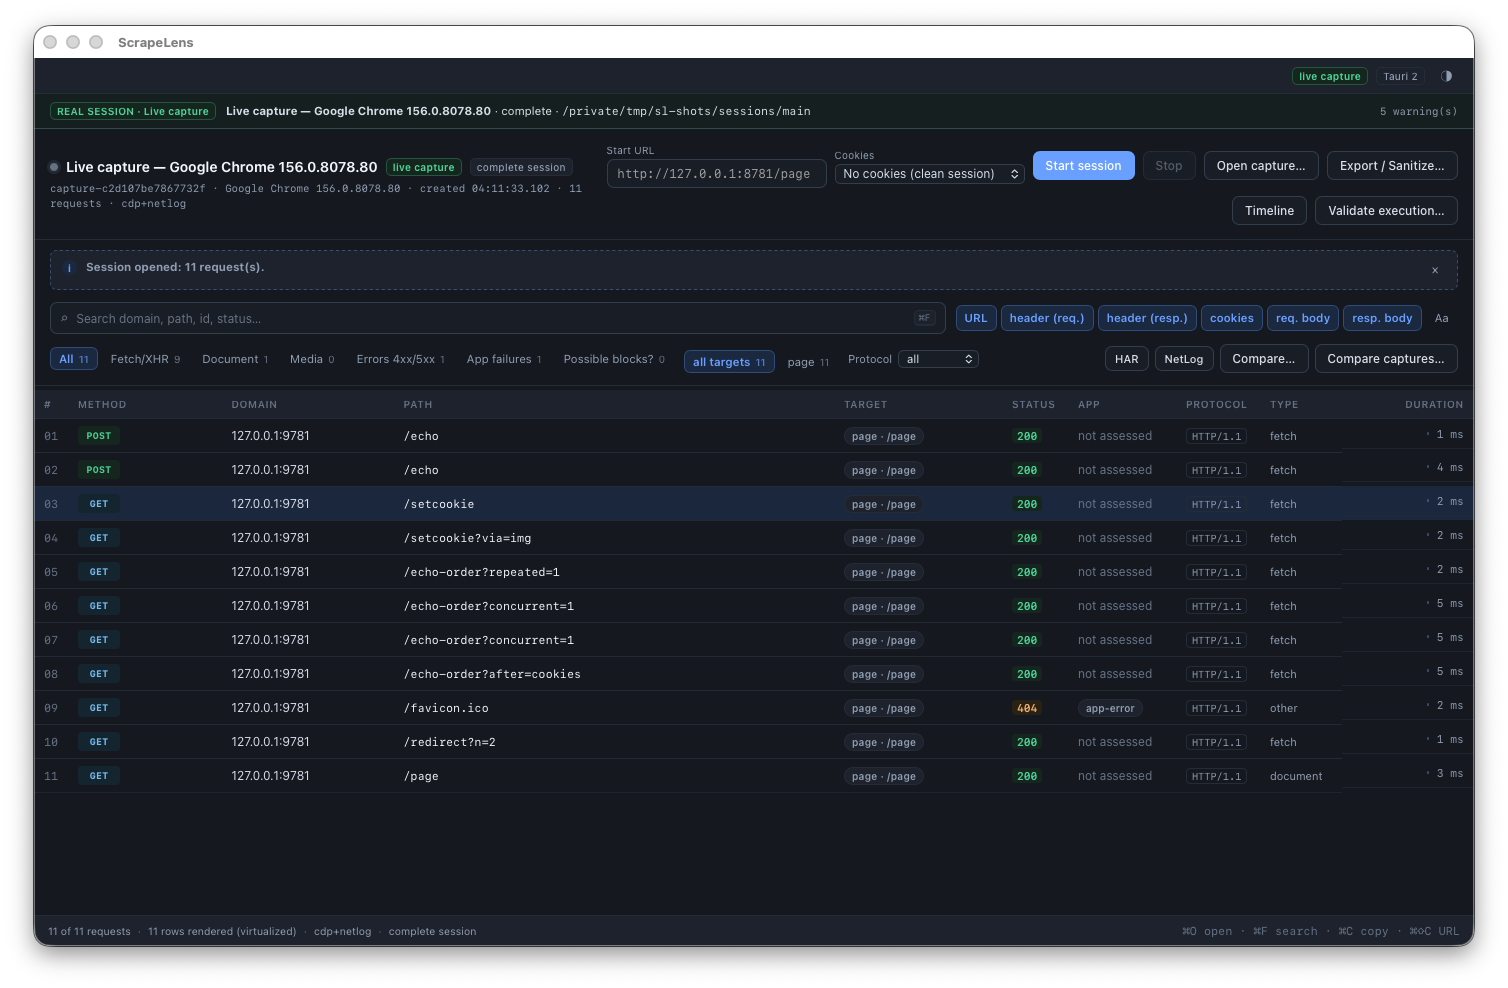
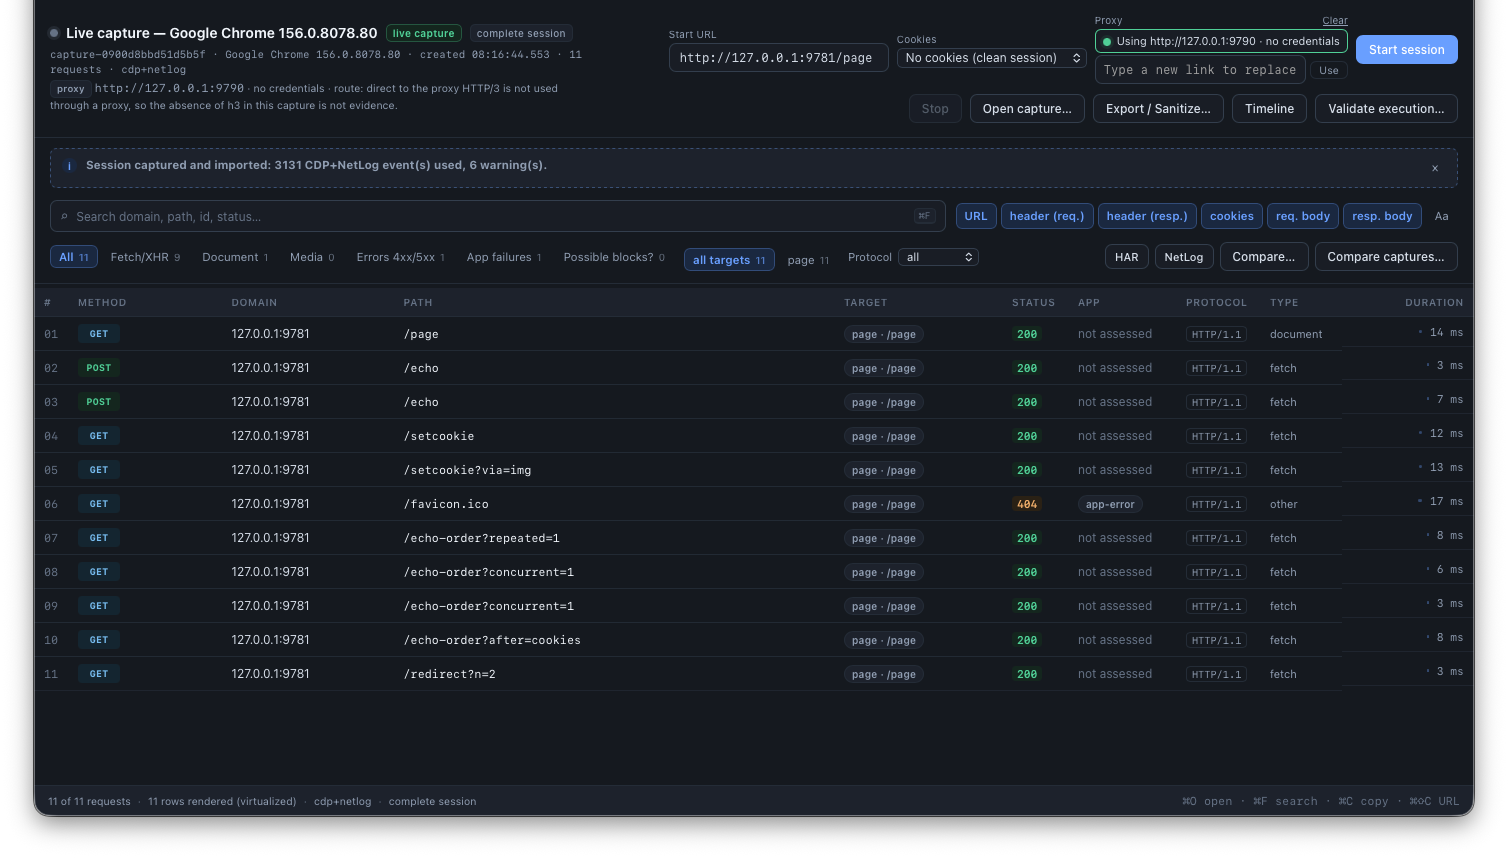
docs(readme): add the Proxy section and a proxied capture screenshot
Add a short Proxy section with the accepted link formats, the MCP "env" option,
and the limits (no HTTP/3, no saved password, exported scripts do not use the
proxy, loopback targets stay off the proxy). Link to docs/22-proxy.md.

Replace the top-bar screenshot with a real capture made through a local test
HTTP proxy without credentials. It shows the Proxy field active and the session
header with the proxy, its route and the HTTP/3 note. The screenshot is cropped
to the capture bar so no local path appears in it.

diff --git a/README.md b/README.md
@@ -56,7 +56,7 @@ Built with **Tauri 2 + React/TypeScript + Rust**, it runs **100% locally**, with
 |---|---|
 | ![Timeline](docs/screenshots/live-timeline.png) | ![Export](docs/screenshots/live-export-sanitize-dialog.png) |
 
-These screenshots are real captures: headless Chrome 156 with a dedicated test profile, against the local ScrapeLens test server (`127.0.0.1:9781`, page `/page`). The `/private/tmp/...` path in them is the temporary session folder of that run.
+These screenshots are real captures: headless Chrome 156 with a dedicated test profile, against the local ScrapeLens test server (`127.0.0.1:9781`, page `/page`). The top-bar screenshot was captured through a local test HTTP proxy (`127.0.0.1:9790`, no credentials) to show the **Proxy** field and the session header. The `/private/tmp/...` path in the export dialog is the temporary session folder of that run.
 
 </details>
 
@@ -111,6 +111,33 @@ open src-tauri/target/release/bundle/macos/ScrapeLens.app
 | `⌘⇧C` / `Ctrl+Shift+C` | Copy the selected request's URL |
 | `↑` / `↓` | Navigate the request list |
 | `Esc` | Close modal / clear selection |
+
+---
+
+## 🌐 Proxy
+
+Optional: one proxy link sends the whole capture through that proxy. Use the **Proxy** field next to *Start URL* and *Cookies*; its status line shows the server in use. In MCP, `start_capture` takes the same `proxy` value.
+
+Accepted links:
+
+| Form | Meaning |
+|---|---|
+| `http://[user:pass@]host[:port]` | HTTP proxy (default port 80) |
+| `https://[user:pass@]host[:port]` | Proxy reached over TLS (default port 443) |
+| `socks5://[user:pass@]host[:port]`, `socks5h://…` | SOCKS5, with remote DNS (default port 1080) |
+| `[user:pass@]host:port` | No scheme: same as `http://` |
+| `host:port:user:pass` | Common provider format: same as `http://user:pass@host:port` |
+
+- **MCP:** prefer `proxy: "env"`, which reads the link from the server's `SCRAPELENS_PROXY_URL` variable, so the password never passes through the model. The variable is ignored unless `"env"` is requested.
+- **App:** the password is kept in memory until the app closes. After a restart, the saved server is shown and the link must be typed again.
+- **Limits:**
+  - No HTTP/3 through a proxy; the session says so.
+  - The password is never saved to disk, and never appears in the session files, exports, or logs.
+  - Exported cURL, Python and priming scripts do not use the proxy, so they can leave from another IP.
+  - Loopback targets are not sent through the proxy.
+  - Validated with local test proxies, not against commercial providers.
+
+Details: [`docs/22-proxy.md`](docs/22-proxy.md).
 
 ---
 

diff --git a/docs/screenshots/README.md b/docs/screenshots/README.md
@@ -8,7 +8,7 @@ No personal profile, cookie or path is in them.
 
 | File | What it shows |
 |---|---|
-| `live-capture-main.png` | Real capture (11 requests, `cdp+netlog`): capture bar, Start URL, cookies selector with “No cookies (clean session)”, filters and request list |
+| `live-capture-main.png` | Real capture (11 requests, `cdp+netlog`) through a local test HTTP proxy (`127.0.0.1:9790`, no credentials): the capture bar with the **Proxy** field active, the Start URL, the cookies selector, and the session header with the proxy, its route and the HTTP/3 note |
 | `live-request-detail-headers.png` | Real `/setcookie` request: raw headers in source order, `verified` state for each part, CDP×NetLog match |
 | `live-compare-requests.png` | Real A/B comparison of two `POST /echo` requests: changed, removed and same header pairs |
 | `live-timeline.png` | Real application timeline: requests in order with the cookies each one consumed and produced |
